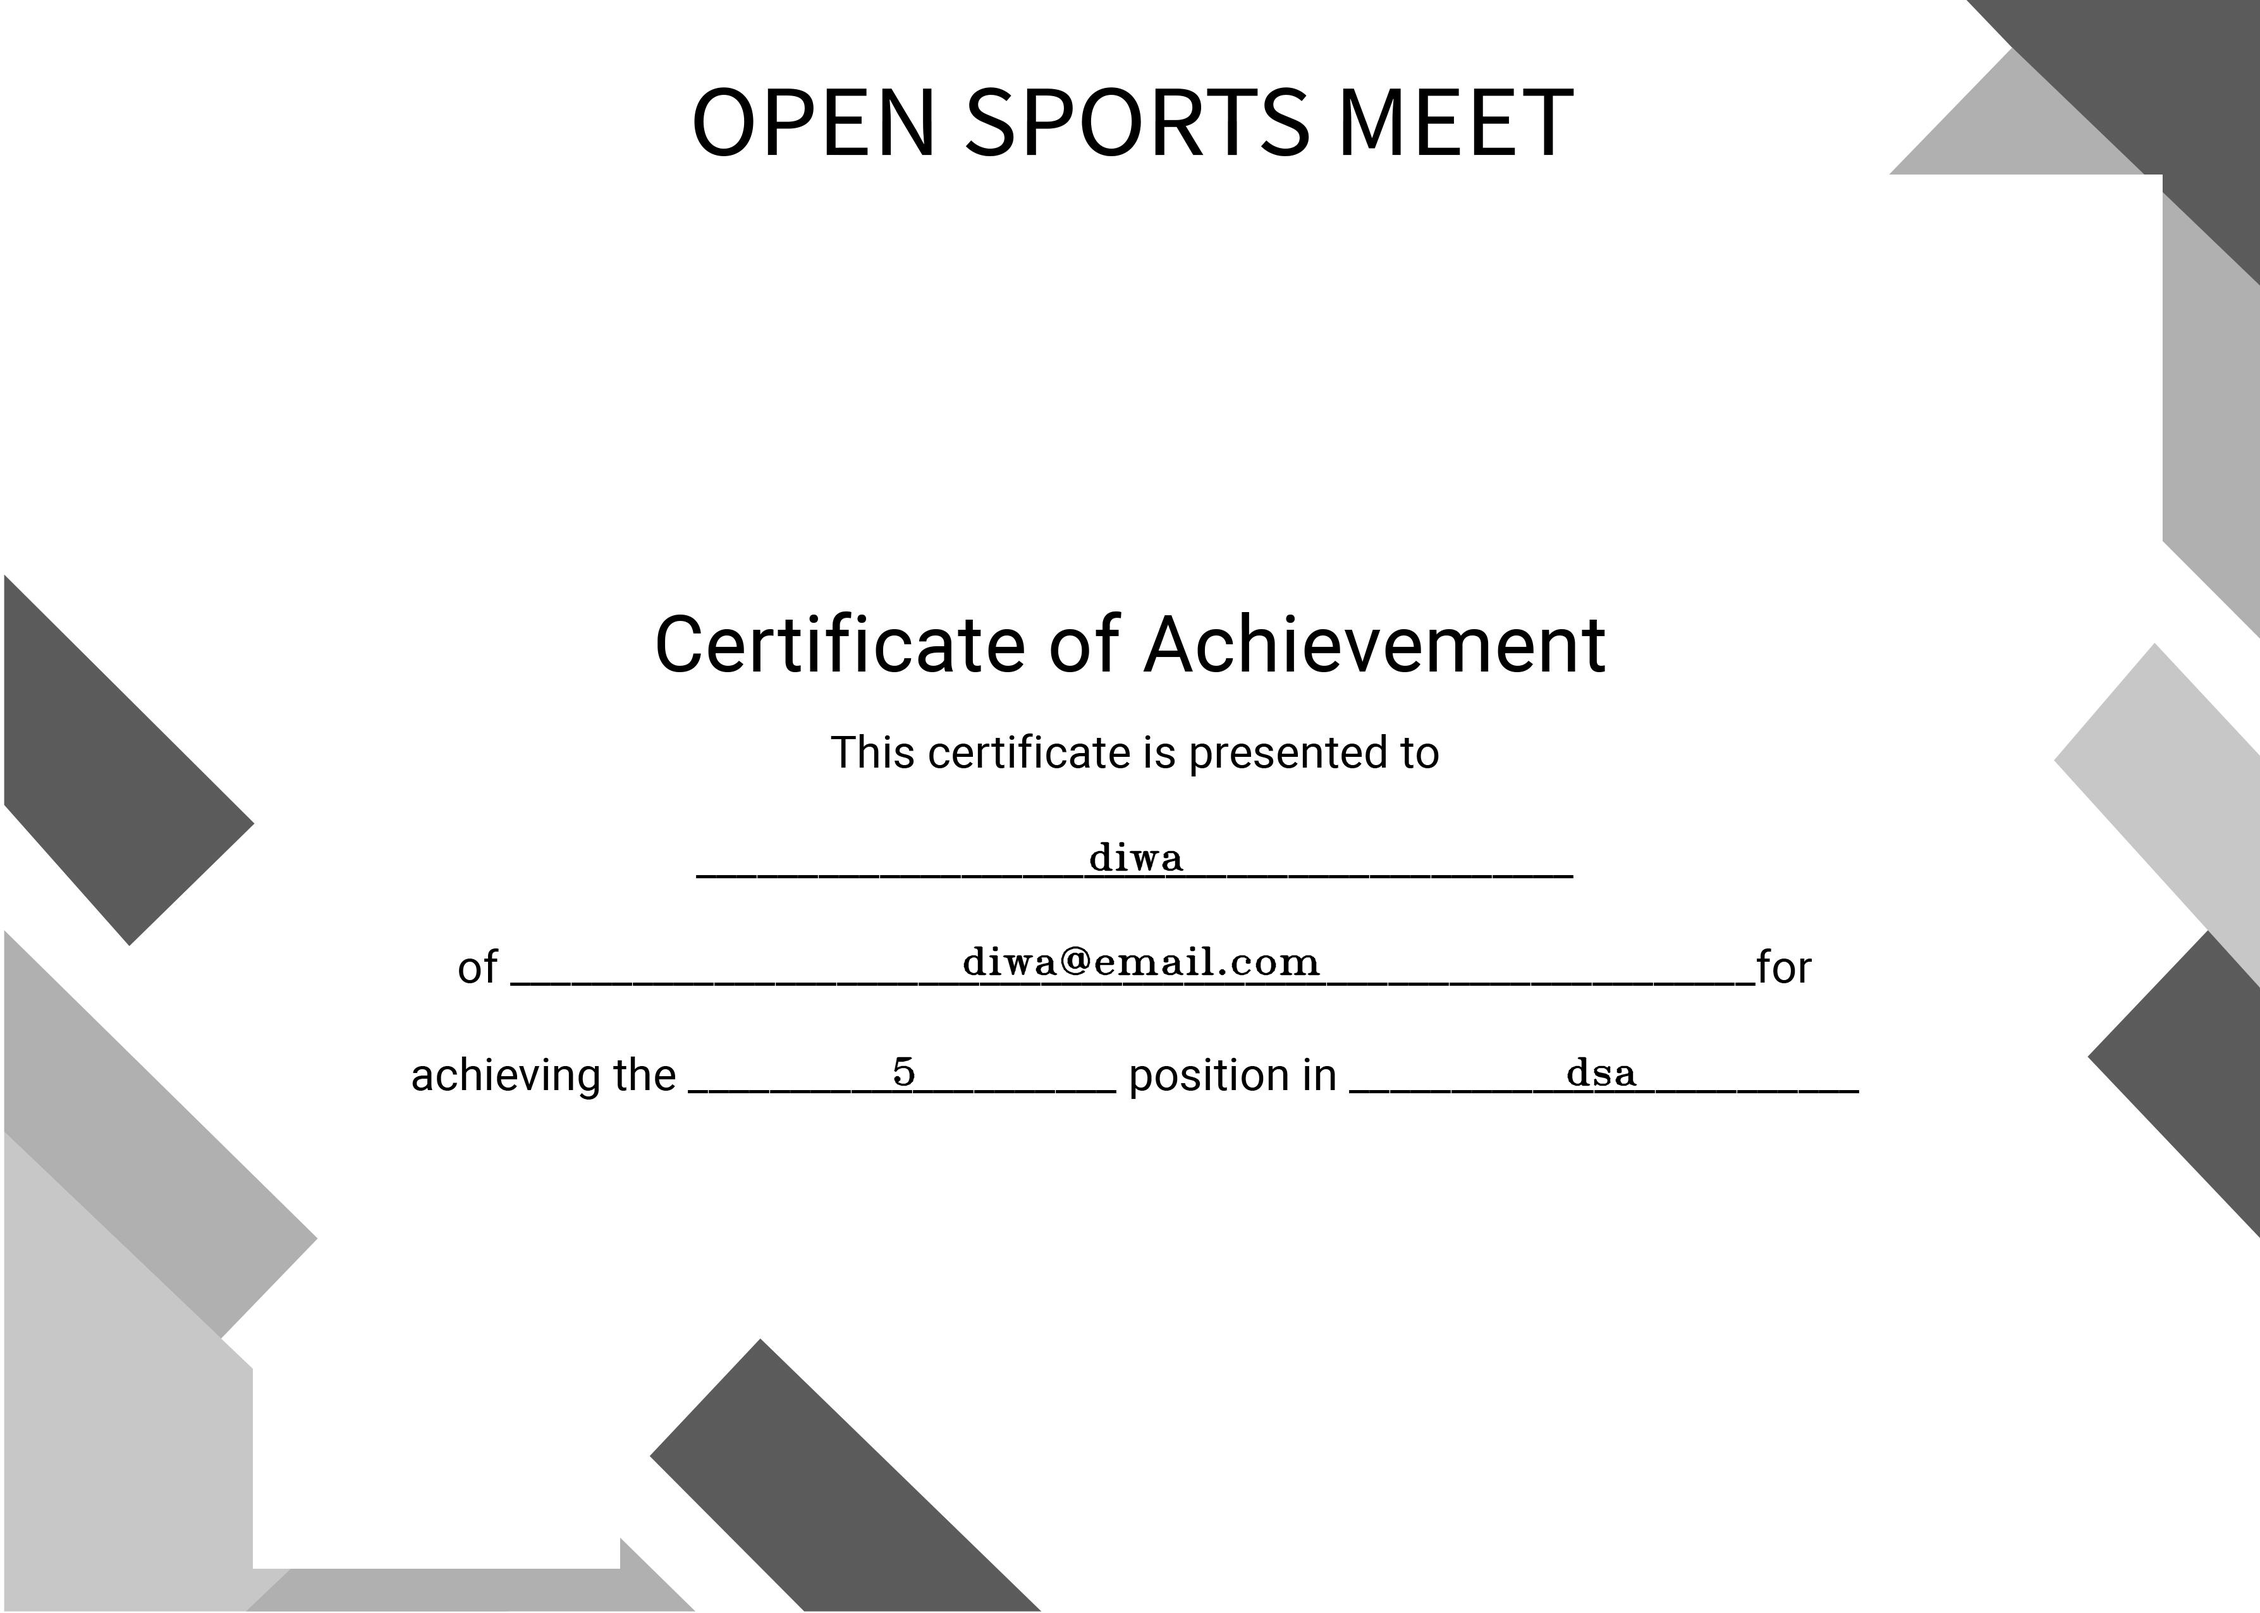
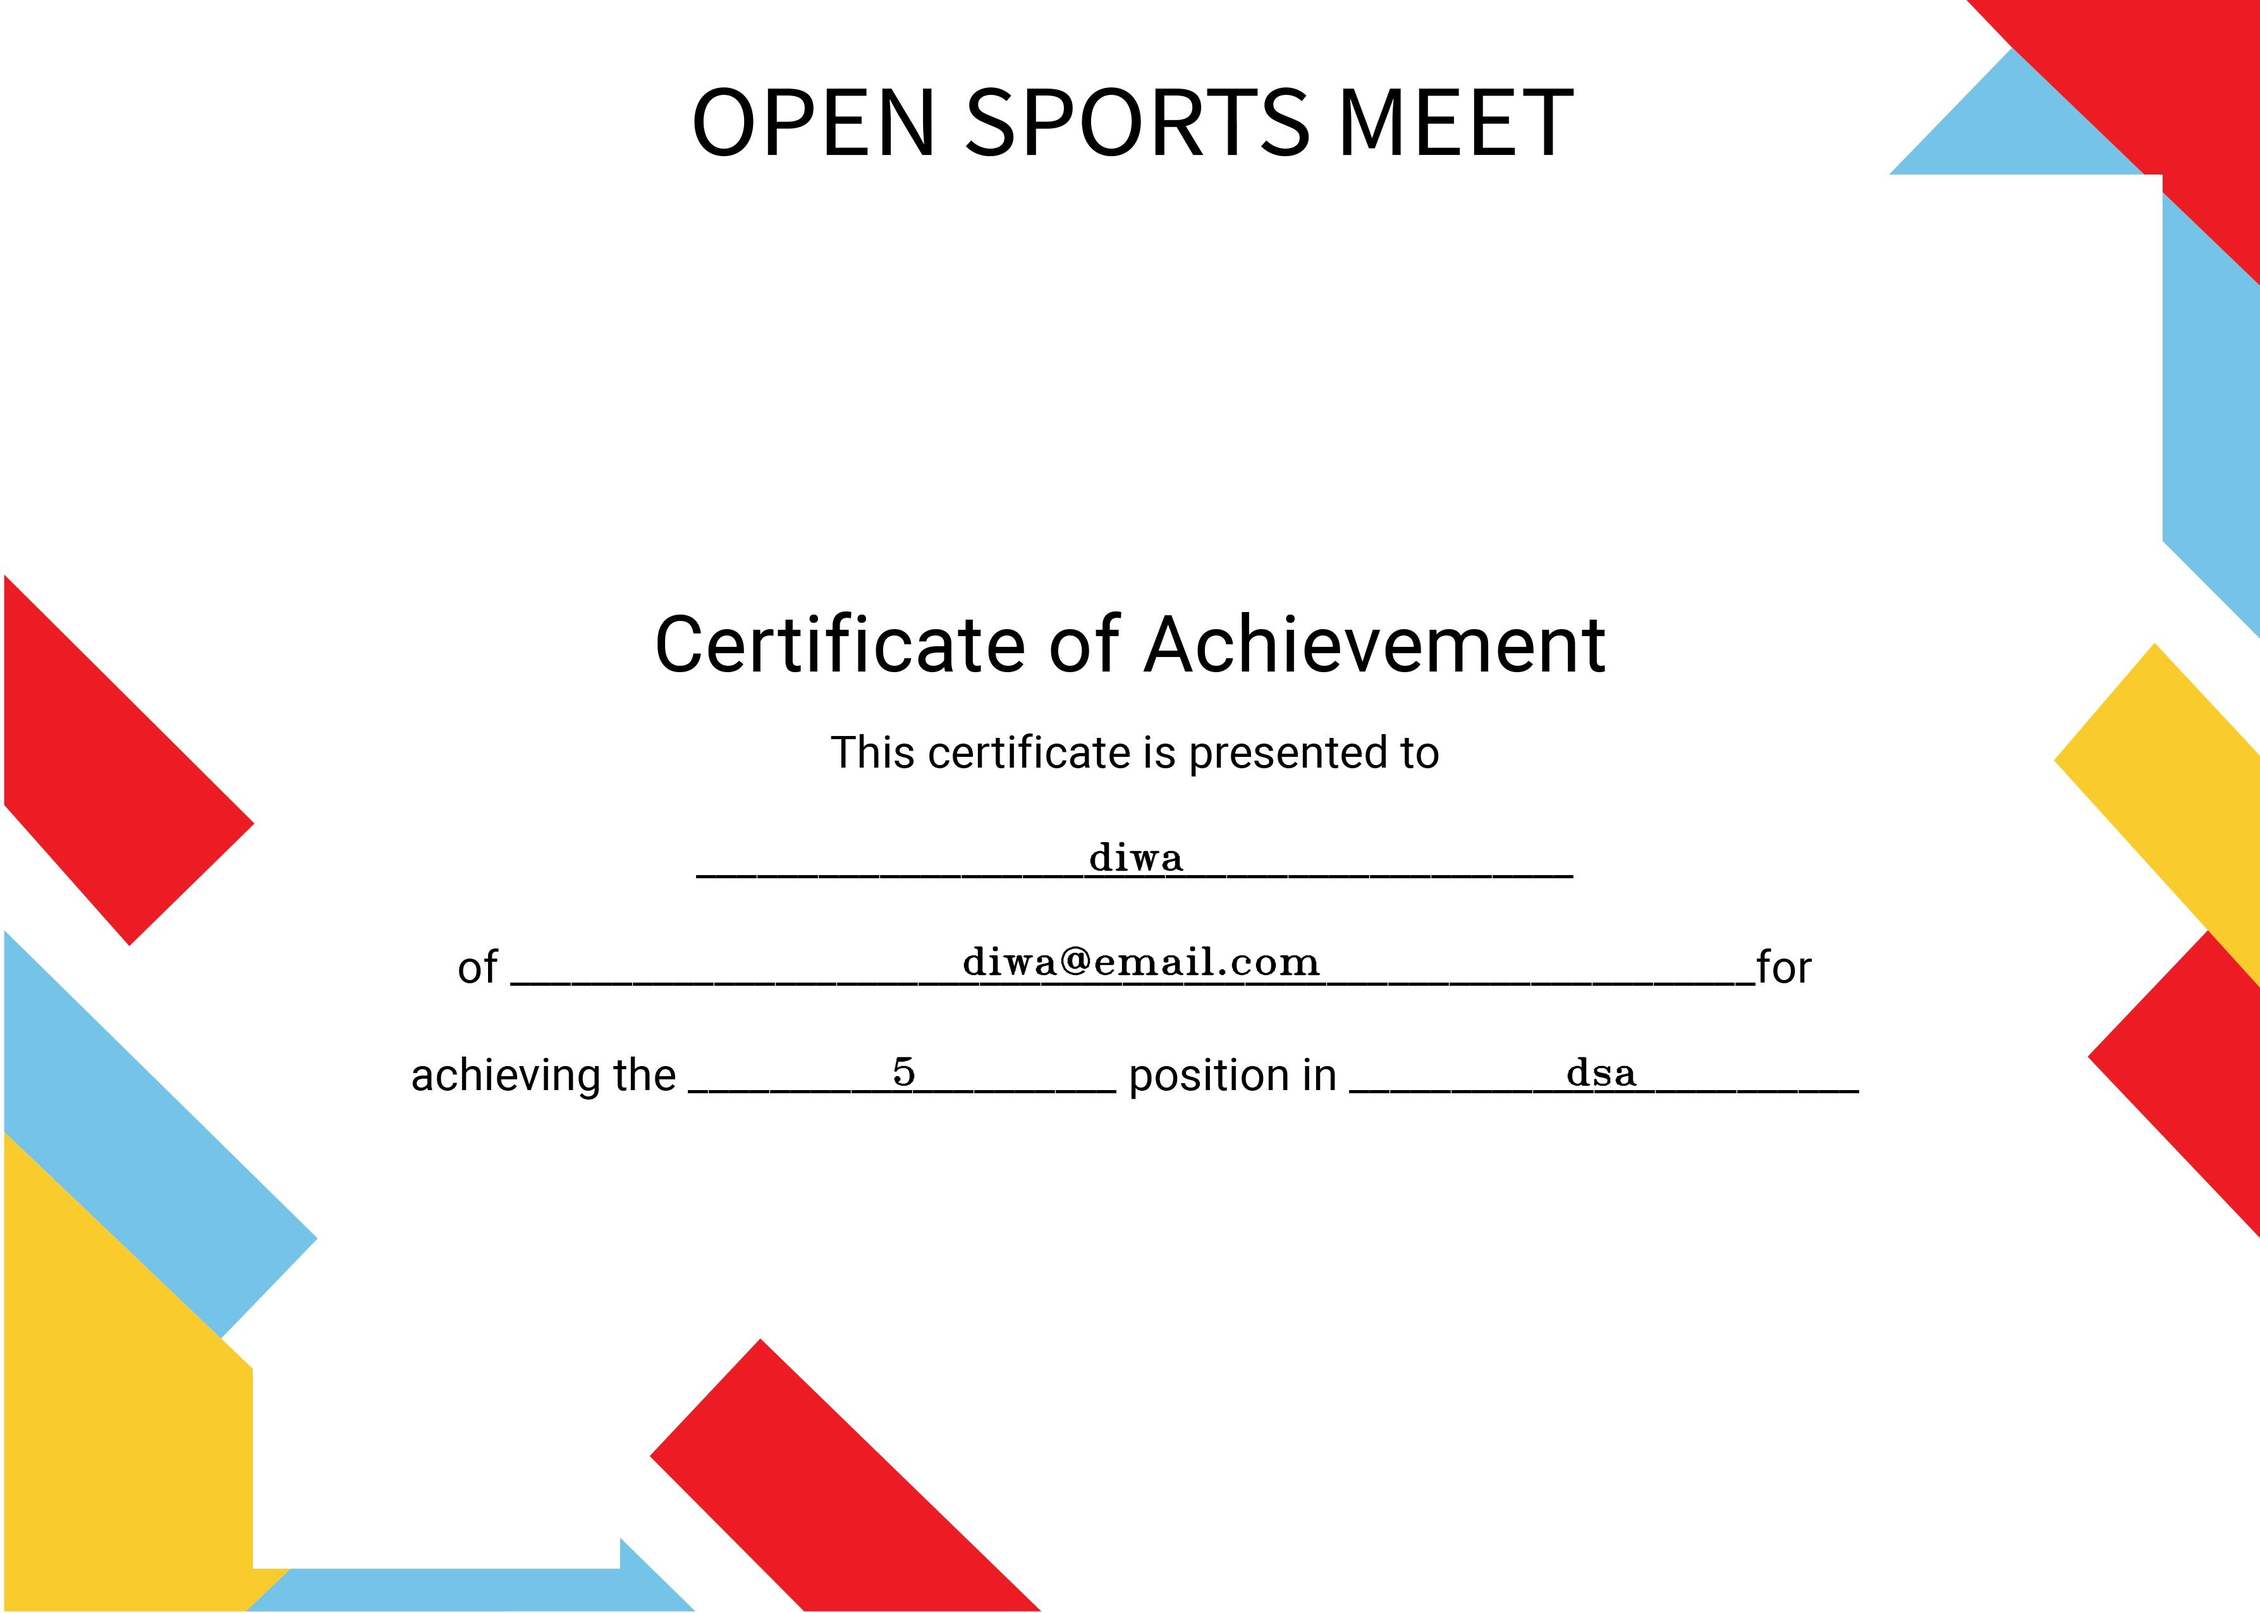
added InBrowser view Support to badge files

diff --git a/templates/memberships/search_results.html b/templates/memberships/search_results.html
@@ -8,6 +8,7 @@
       
       <form method="post" action="{% url 'memberships:search_submit' %}">
           {% csrf_token %}
+          
           <button type="submit" value="Submit">Download Badge</button>
       </form>
 

diff --git a/templates/memberships/view_badge.html b/templates/memberships/view_badge.html
@@ -1,0 +1,6 @@
+{% load static %} 
+
+<h1>View Badge</h1>
+<ul>
+    <img src="{% static img_url %}" alt="Hi!"  width="1200" height="800" />
+</ul>

diff --git a/memberships/views.py b/memberships/views.py
@@ -2,8 +2,13 @@ from django.shortcuts import render, redirect, reverse, HttpResponse
 from django.contrib.auth.decorators import login_required
 from django.views.generic import RedirectView
 from django.views import generic
-import csv
 
+import csv
+import os
+import PIL
+import cv2 as cv
+
+from BadgeProject.settings import BASE_DIR
 from .models import StudentMembership
 from courses.models import Course
 from . import forms
@@ -60,13 +65,10 @@ class SearchResultsView(generic.ListView):
             Q(email_id__icontains=query) | Q(student_name__icontains=query)
         )
 
-        output_file_path = '/home/kp-ubuntu/Desktop/hackathon/GLOBALSHALA_hackathon/Badging_system_krunal/input.csv'
+        output_file_path = BASE_DESTINATION= os.path.join(BASE_DIR,"input.csv")
         with open(output_file_path, 'w', newline='') as file:
             writer = csv.writer(file, quoting=csv.QUOTE_ALL)
 
-            # response = HttpResponse(content_type='text/csv')
-            # response['Content-Disposition'] = 'attachment; filename="file.csv"'
-            # writer = csv.writer(response)
             for member in object_list:
                 writer.writerow([member.student_name, member.email_id, member.id, member.course])
 
@@ -80,20 +82,13 @@ class SearchResultsView(generic.ListView):
 
 
 def submit(request):
-    import PIL
-    import os
-    import cv2 as cv
-    from BadgeProject.settings import BASE_DIR
-
     # function to calculate the start for each blank depending on size of string to be filled
     def calc_start(center,arr,size_of_font):
         length = len(arr)
         center[0] = int(center[0] - size_of_font * (length/2))
         return center
 
-    base_destination = 'static/images/Badges/teams/'
-    BASE_DESTINATION= os.path.join(BASE_DIR,base_destination)
-    
+    BASE_DESTINATION= os.path.join(BASE_DIR,"static/images/Badges/teams/")
     included_ext = ['csv']
     
     # returns all csv files in the current directory
@@ -112,8 +107,6 @@ def submit(request):
             #         print(row)
             # print('//////////////////////////////////////////')
             
-            data=[]
-
             name_list=[]
             email_list=[]
             unique_id_list=[]
@@ -121,17 +114,14 @@ def submit(request):
 
             with open(group) as csv_file:
                 csv_reader = csv.reader(csv_file, quotechar='"', delimiter=',', quoting=csv.QUOTE_ALL)
+                
                 for row in csv_reader:
-                    data.append(row)
-
                     name_list.append(row[0])
                     email_list.append(row[1])
                     unique_id_list.append(row[2])
                     course_list.append(row[3])
-                    # print(row)
 
             print('==============')
-            print(data)
             print(name_list)
             print(email_list)
             print(unique_id_list)
@@ -154,8 +144,8 @@ def submit(request):
                         os.makedirs(destination)
 
                     #enter template
-                    imgpath = "/home/kp-ubuntu/Desktop/hackathon/GLOBALSHALA_hackathon/Badging_system_krunal/static/images/Badges/achievementsports.jpg"
-                    img = cv.imread(imgpath, 0)
+                    imgpath = os.path.join(BASE_DIR,"static/images/Badges/achievementsports.jpg")
+                    img = cv.imread(imgpath, 1)
                     
                     # # Displaying the image 
                     # cv.imshow('image', img)
@@ -182,12 +172,25 @@ def submit(request):
                     cv.putText(img,unique_id_list[i],tuple(start_3), font, 2,(0,0,0),2,cv.LINE_AA)
                     cv.putText(img,course_list[i],tuple(start_4), font, 2,(0,0,0),2,cv.LINE_AA)
 
-                    cv.imwrite(destination+ name_list[i] + '_' + unique_id_list[i] + '.jpg',img)
+                    img_path = str(destination) + str(name_list[i]) + '_' + str(unique_id_list[i]) + '.jpg'
+                    cv.imwrite(img_path, img)
 
                     print('***************************************')
                     print('***    SUCCESS IN CREATING BADGE    ***')
                     print('***************************************')
                     # print(f"{i+1}/{len(name)}")
+
+                    img_path1="/".join( img_path.split('/')[-5:] )
+                    context = {
+                        'img_url': img_path1
+                    }
+                    
+                    print('***************************************')
+                    print(img_path1)
+                    print('***************************************')
+
+                    return render(request,'memberships/view_badge.html',context)
+
                 except:
                     print("Something went wrong")
         except:
